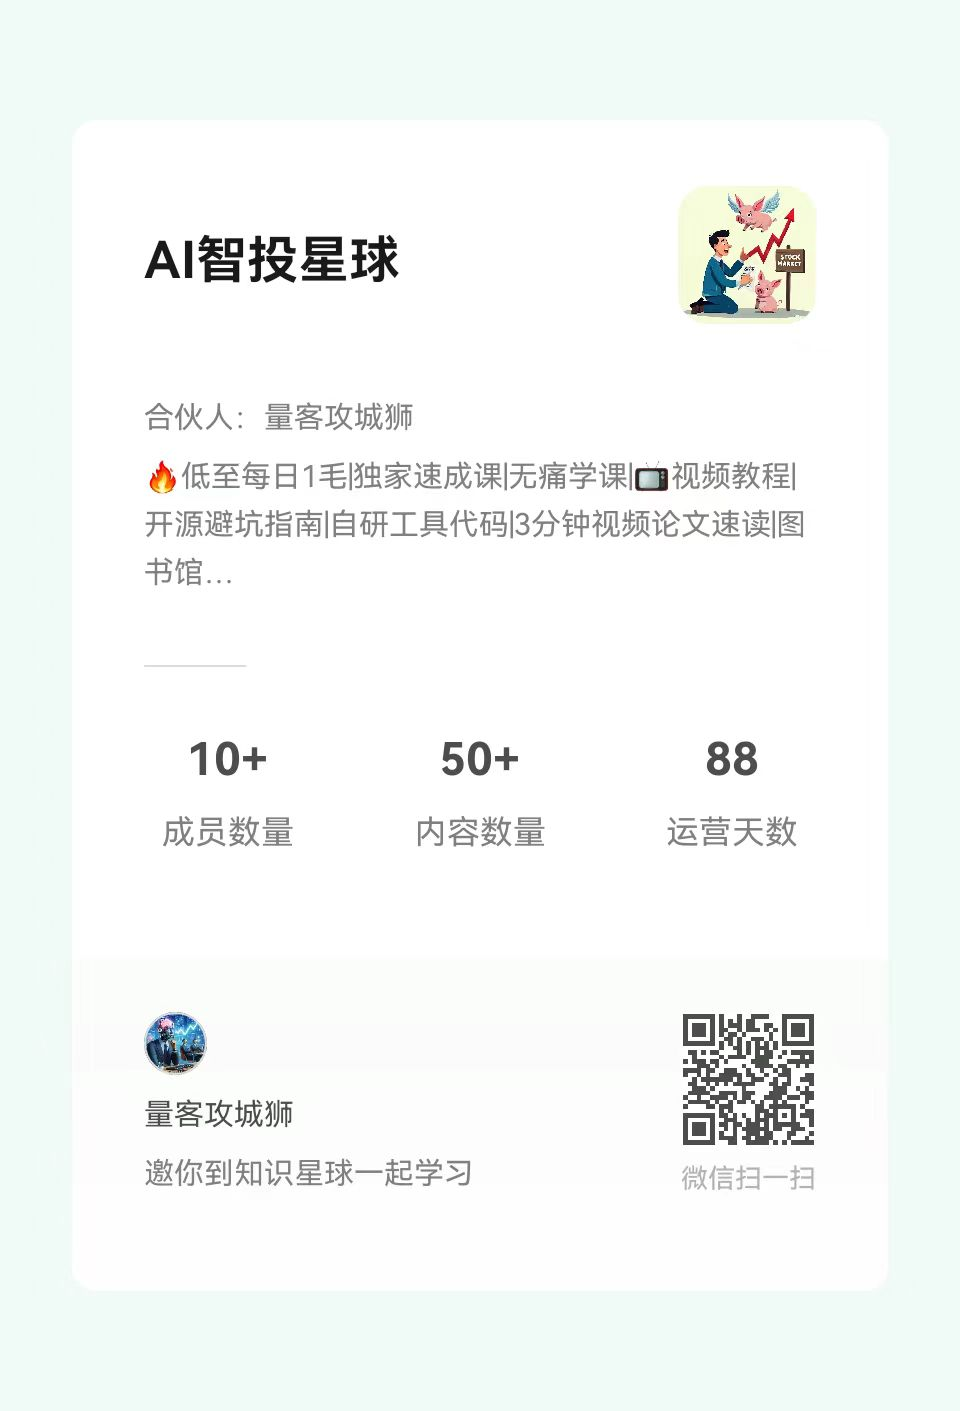
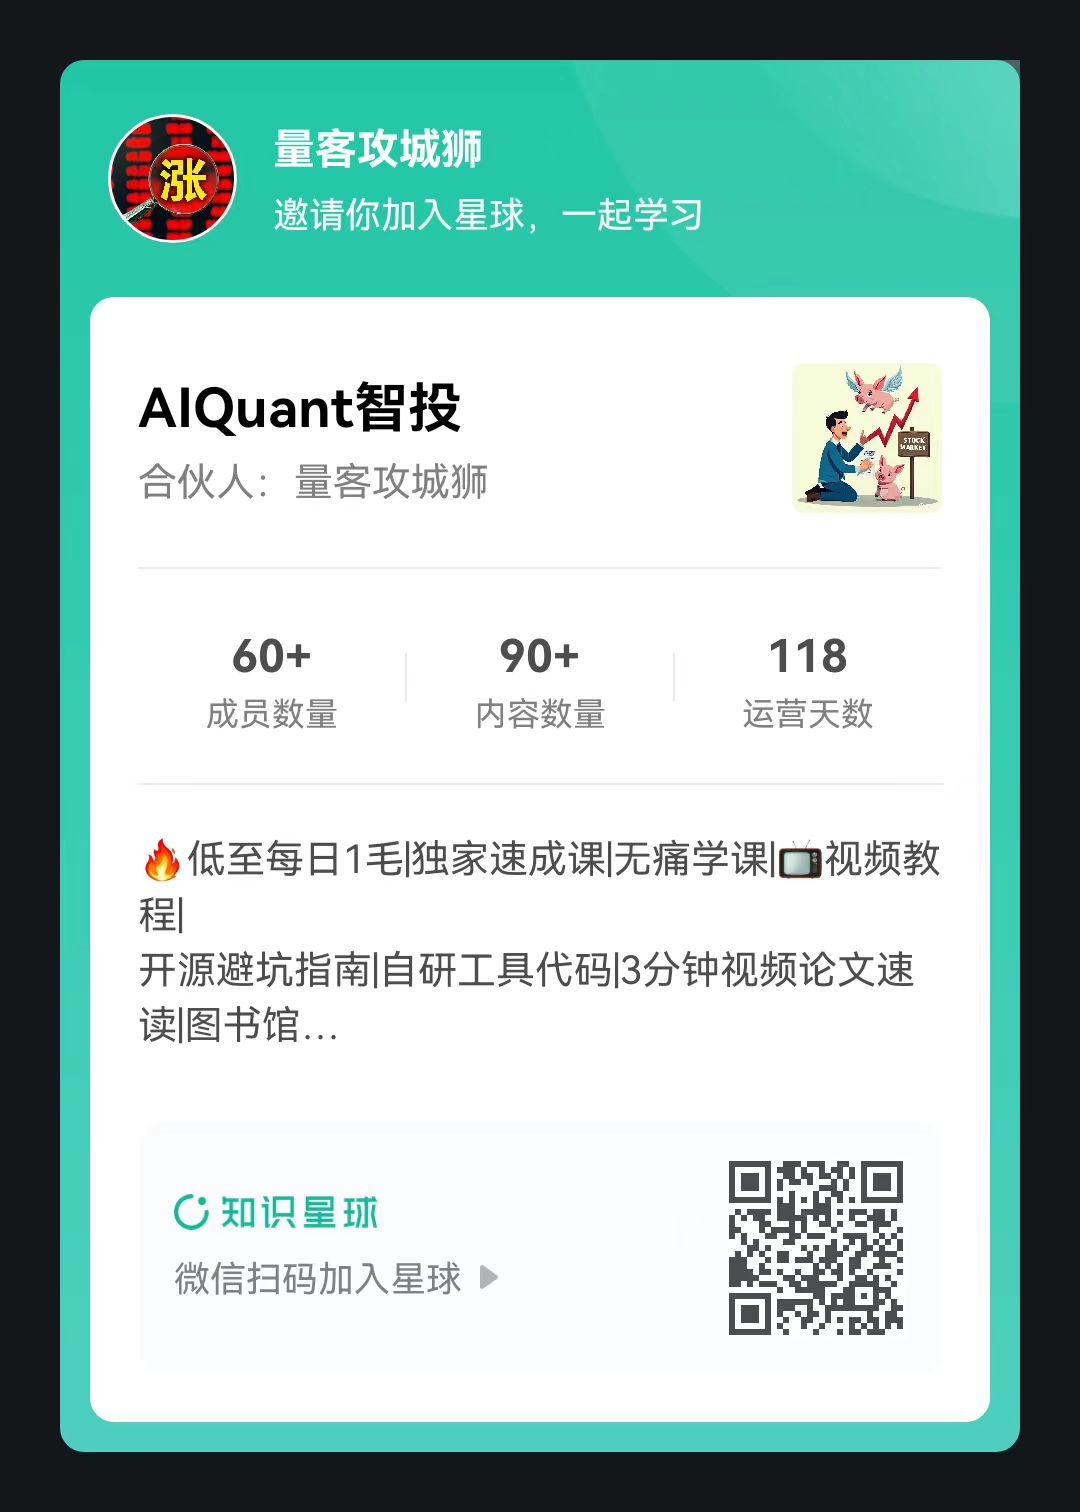
更新README.md及星球介绍和使用

diff --git a/README.md b/README.md
@@ -50,8 +50,13 @@
 
 👇下方扫描二维码或者点击链接，都可以进入星球查看更详细的介绍🎏
 
+星球加入链接：
 - [AI智投星球](https://t.zsxq.com/dHt9l)：AI量化交易速成、前沿技术、实战案例、资源库
-- [大模型避坑指南](https://t.zsxq.com/q42Js)：侧重编程、大模型、AI基础、原理及金融方向实战及求职（大模型问答、风控等）的速成和案例分享，为[AI智投星球]提供扎实的基础知识内容，形成互补
+- [AI速成营](https://t.zsxq.com/q42Js)：作为子星球，深入补充编程、大模型、AI基础、原理及金融方向实战及求职等的速成和案例分享，为[AI智投星球]提供扎实的基础知识内容，形成互补
+
+星球介绍：
+- [**星球内容介绍**](docs/03_星球使用和介绍/01_星球介绍.md)  
+- [**新人使用指南**](docs/03_星球使用和介绍/02_新人使用指南.md)  
 
 福利限时放送：    
 🧧加入并帮助我们推广拉新可返现15元，详情请在星球或公众号内咨询管理员。🧧        
@@ -81,7 +86,7 @@
 
 ---
 
-- [知乎：391关注者](https://www.zhihu.com/people/yi-dui-ji-mu-zai-kuang-xiang)
+- [知乎：576关注者](https://www.zhihu.com/people/yi-dui-ji-mu-zai-kuang-xiang)
 - [聚宽：599关注者](https://www.joinquant.com/user/d7aafd0b8b767b735bfb6f3639c81a6c)
 
 ---

diff --git a/docs/03_星球使用和介绍/01_星球介绍.md b/docs/03_星球使用和介绍/01_星球介绍.md
@@ -1,0 +1,3 @@
+![](.01_星球介绍_images/星球_AIQuant智投_长图海报_P1.png)
+![](.01_星球介绍_images/星球_AIQuant智投_长图海报_P2.png)
+![](.01_星球介绍_images/量化海报_v2_20250126.png)
